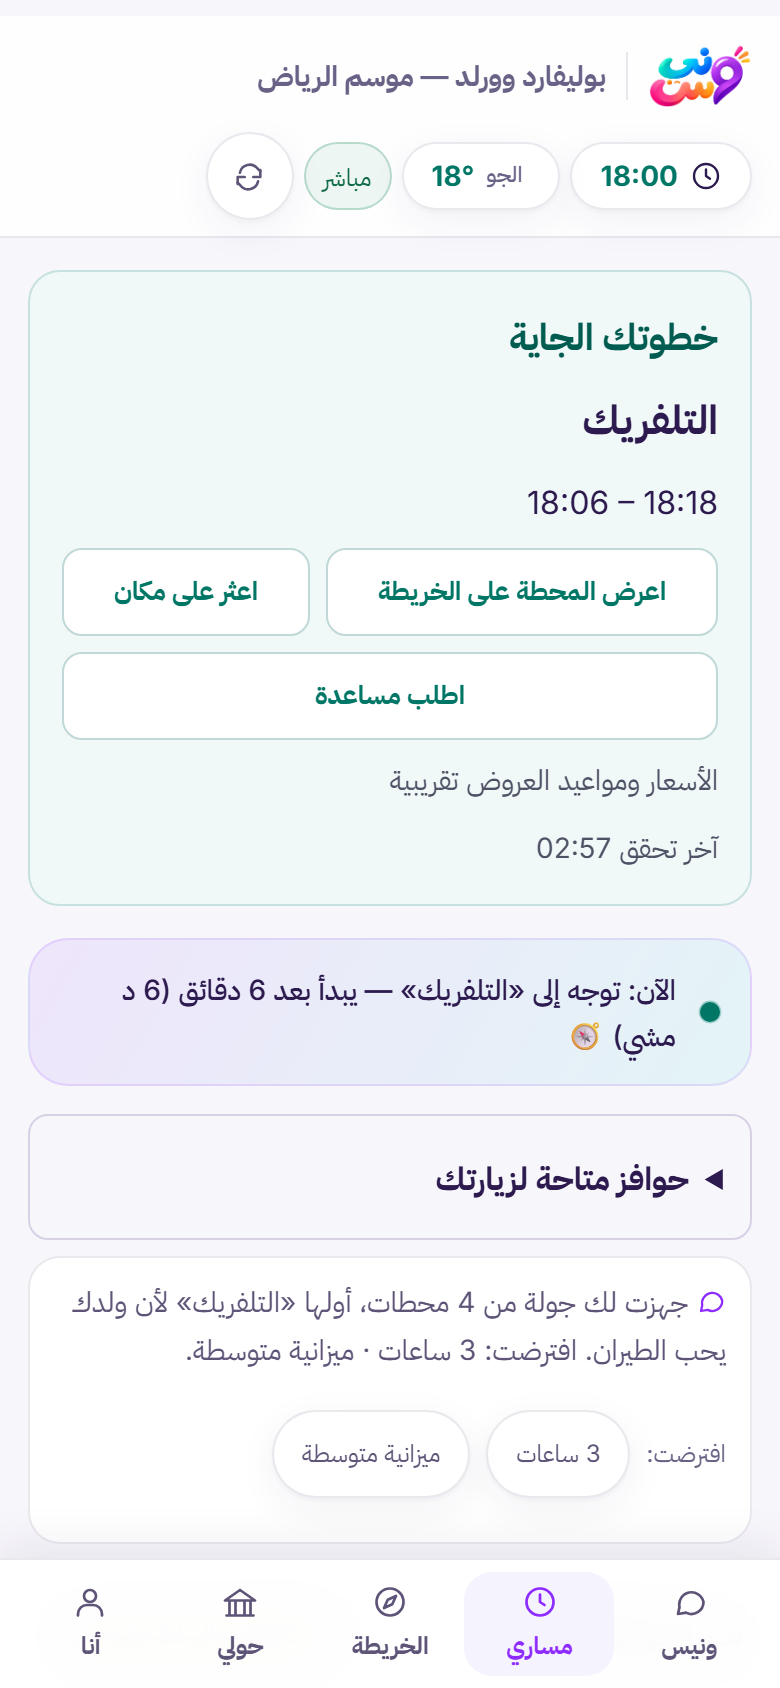
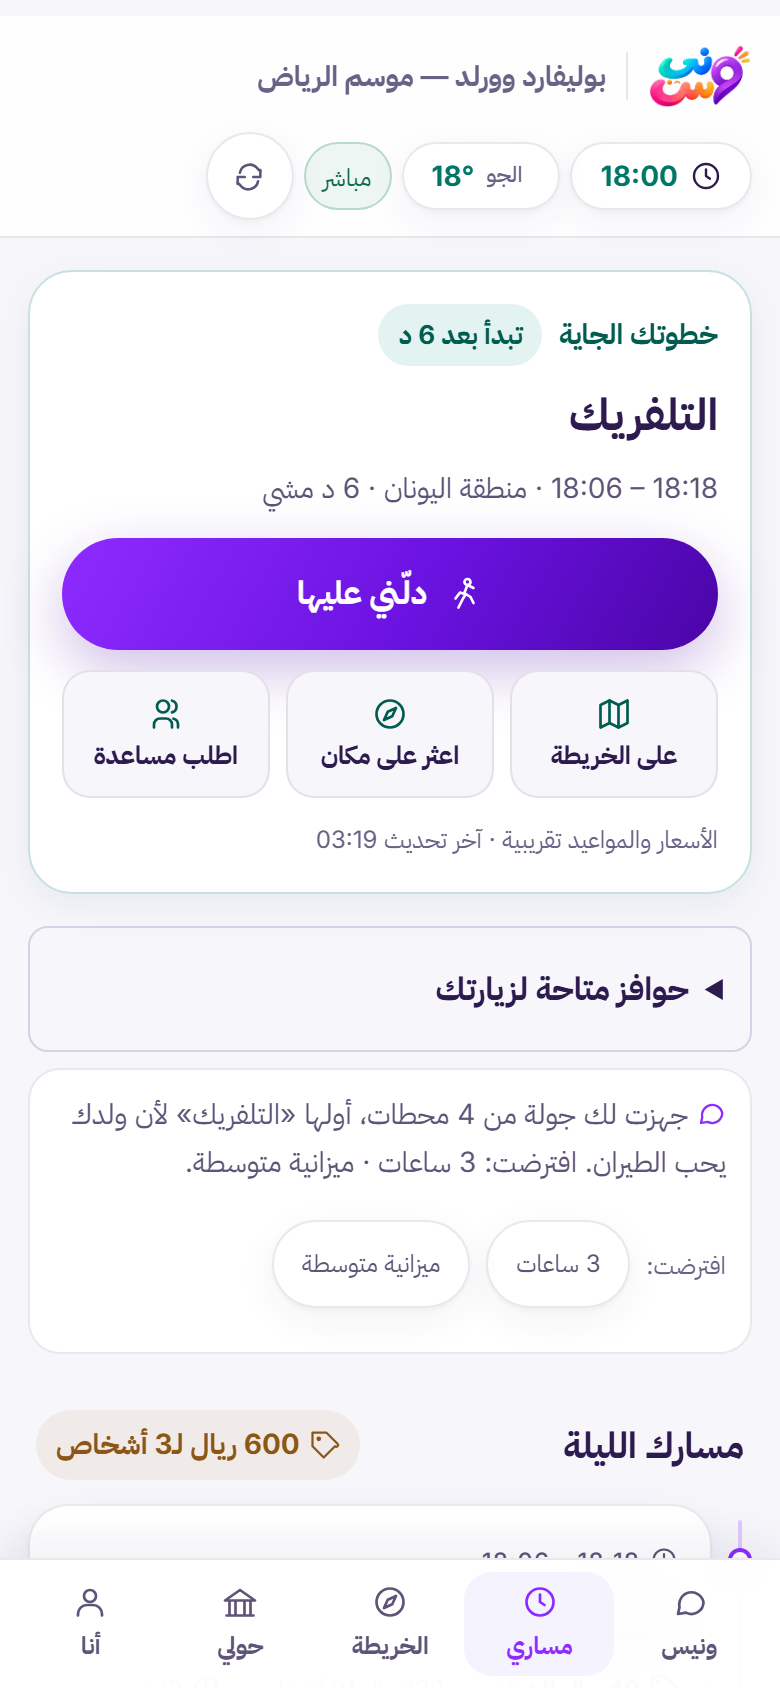
Visitor UX pass: a typing reply, one main action on the «now / next» card
- After «يلا» the visitor's sentence goes out as a chat bubble and Wanees types back
  while the plan is built.
- The «now / next» card: time left («باقي 12 د», «تبدأ بعد 6 د», «الموقع يفتح 18:00»),
  zone and walk, one main «دلّني عليها» button, three small tiles (map, find a place,
  help) and a single footnote. The banner below it that repeated the same stop is gone.
- The welcome's «اعثر على مكان» and operator link are quiet secondary actions.
- The browser suite waits up to 15 s for an assertion: on a cold CI runner with two
  browsers the first plan sometimes took just over 5 s (WebKit app-shell.spec.mjs:27).
- README screenshots retaken.

diff --git a/app/app/demo/page.tsx b/app/app/demo/page.tsx
@@ -1664,6 +1664,12 @@ function VisitorGuide({ eventSlug: suppliedEventSlug, allowLegacyFallback: suppl
           <h1 className="logo-word"><BrandLogo height={132} wordmark label="ونيس" priority /></h1>
           <p className="tagline"><b>هلا والله! قل لي وش بالك الليلة</b><br />مين معك، وش تحبون، وكم عندكم وقت. أفهمك من كلامك وأرتّب لك جولتك على طول.</p>
           {isFixture && <p className="visitor-note">{isPitch ? "عرض تجريبي · الأسعار والمواعيد للشرح" : "موسم 2026-27"}</p>}
+          {isBuildingPlan && (
+            <div className="chat-preview" aria-live="polite">
+              {openingText.trim() && <p className="chat-bubble mine"><bdi>{openingText.trim()}</bdi></p>}
+              <p className="chat-bubble typing" role="status"><span className="sr-only">ونيس يرتّب جولتك…</span><i /><i /><i /></p>
+            </div>
+          )}
         </div>
         <div className="welcome-actions">
           <Mascot mood="wave" height={150} className="welcome-mascot" priority />
@@ -1748,7 +1754,7 @@ function VisitorGuide({ eventSlug: suppliedEventSlug, allowLegacyFallback: suppl
               {openingError && <p className="guide" role="alert">{openingError}</p>}
             </form>
           )}
-          {eventLoadState !== "error" && <button className="cta secondary" type="button" disabled={eventLoadState !== "ready"} onClick={() => setShowPlaces(true)}>اعثر على مكان</button>}
+          {eventLoadState !== "error" && <button className="quiet-action" type="button" disabled={eventLoadState !== "ready"} onClick={() => setShowPlaces(true)}><Icon name="map" size={18}/> اعثر على مكان: حمام، بوابة، إسعاف</button>}
           {visitResetError && <p role="alert">{visitResetError}</p>}
           {guest?.exists && guest.preferences && (
             <button className="cta secondary" disabled={eventLoadState !== "ready" || isBuildingPlan} onClick={() => void startFromConversation("", guest.preferences as Record<string, unknown>)}>ابدأ بذوقك السابق <Icon name="rotate" size={16}/></button>
@@ -1789,6 +1795,11 @@ function VisitorGuide({ eventSlug: suppliedEventSlug, allowLegacyFallback: suppl
   const closedPreview = modeRef.current === "durable" && !venueOpen && !isPitch;
   const firstStop = it?.stops[0];
   const headline = closedPreview ? firstStop : upcoming;
+  const headlineZone = headline ? eventCatalog?.zones.find((zone) => zone.id === headline.zone)?.name ?? "" : "";
+  // «باقي 12 د» while a stop runs, «بعد 8 د» before it starts; nothing far ahead or before opening.
+  const minutesLeft = headline && !closedPreview ? (current && headline.act_id === current.act_id ? headline.end - now : headline.start - now) : null;
+  const timeLeftLabel = closedPreview && firstStop ? `الموقع يفتح ${fmt(now)}` : minutesLeft == null || minutesLeft <= 0 || minutesLeft > 90 ? ""
+    : current && headline?.act_id === current.act_id ? `باقي ${minutesLeft} د` : `تبدأ بعد ${minutesLeft} د`;
   let guide = it?.stops.length ? "انتهت جولتك. نتمنى أنك استمتعت!" : "ما لقينا نشاطًا يناسب الوقت والميزانية الآن. تقدر تستكشف الأماكن أو تبدأ زيارة جديدة.";
   if (closedPreview && firstStop) guide = `الموقع يفتح ${fmt(now)} · أول محطة ${fmt(firstStop.start)} «${firstStop.name}»`;
   else if (current) guide = `الآن: ${current.name} — استمتع! 🎉`;
@@ -1827,26 +1838,36 @@ function VisitorGuide({ eventSlug: suppliedEventSlug, allowLegacyFallback: suppl
 
       {it && itineraryVisible && <>
           <section className="next-stop" aria-labelledby="next-stop-title">
-            <h2 id="next-stop-title">{closedPreview ? "أول محطة بعد الافتتاح" : current ? "محطتك الآن" : "خطوتك الجاية"}</h2>
+            <div className="next-stop-head">
+              <h2 id="next-stop-title">{closedPreview ? "أول محطة بعد الافتتاح" : current ? "محطتك الآن" : "خطوتك الجاية"}</h2>
+              {headline && timeLeftLabel && <span className="next-stop-left">{timeLeftLabel}</span>}
+            </div>
             {headline ? <>
               <strong>{headline.name}</strong>
-              <p><ItineraryTimeRange start={fmt(headline.start)} end={fmt(headline.end)} />{headline.note && ` · ${headline.note}`}</p>
+              <p className="next-stop-when"><ItineraryTimeRange start={fmt(headline.start)} end={fmt(headline.end)} />{headlineZone && <> · {headlineZone}</>}{!(current && headline.act_id === current.act_id) && headline.walk_min > 0 && <> · {headline.walk_min} د مشي</>}{headline.note && <> · {headline.note}</>}</p>
             </> : <p>{guide}</p>}
+            {headline && !isPitch && (
+              <button type="button" className="cta next-stop-go" onClick={(event) => openDirections(headline.act_id, event.currentTarget)}>
+                <Icon name="walk" size={18}/> {current ? "دلّني داخل المحطة" : "دلّني عليها"}
+              </button>
+            )}
             <div className="visit-quick-actions">
-              {headline && <button type="button" className="link-btn" onClick={() => showMap(headline.zone)}>اعرض المحطة على الخريطة</button>}
-              <button type="button" className="link-btn" onClick={() => setShowPlaces(true)}>اعثر على مكان</button>
+              {headline && <button type="button" className="link-btn" onClick={() => showMap(headline.zone)}><Icon name="map" size={18}/> على الخريطة</button>}
+              <button type="button" className="link-btn" onClick={() => setShowPlaces(true)}><Icon name="compass" size={18}/> اعثر على مكان</button>
               <button type="button" className="link-btn" onClick={() => {
-                setActiveTab("assistant");
+                selectTab("assistant");
                 void sendChat("أحتاج مساعدة من موظف");
-              }}>اطلب مساعدة</button>
+              }}><Icon name="people" size={18}/> اطلب مساعدة</button>
             </div>
             {reading && <small className="visitor-note">الإشغال المرصود {Math.round(reading.level * 100)}٪{reading.observation?.waitMinutes != null && ` · انتظار ${reading.observation.waitMinutes} د`} · {reading.source === "operator" ? "من المشغّل" : "من نظام الموقع"}</small>}
-            {isFixture && <small className="visitor-note">{isPitch ? "عرض تجريبي · أسعار ومواعيد توضيحية" : "الأسعار ومواعيد العروض تقريبية"}</small>}
-            {lastLiveCheck && <small className="visitor-note">آخر تحقق {venueTimeLabel(lastLiveCheck, eventTimezone)}</small>}
+            {(isFixture || lastLiveCheck) && <small className="visitor-note next-stop-foot">
+              {isFixture && (isPitch ? "عرض تجريبي، الأسعار والمواعيد توضيحية" : "الأسعار والمواعيد تقريبية")}
+              {isFixture && lastLiveCheck && <span aria-hidden="true"> · </span>}
+              {lastLiveCheck && <>آخر تحديث {venueTimeLabel(lastLiveCheck, eventTimezone)}</>}
+            </small>}
           </section>
       </>}
-      {/* The «now» card above already says which stop is running; no second banner for the same thing. */}
-      {it && itineraryVisible && !(current && headline?.act_id === current.act_id) && <div className="guide plan-guide" role="status"><span className="dot" />{it.stops.length ? guide : "ما فيه محطات ضمن الوقت والتفضيلات المختارة."}</div>}
+      {/* The «now / next» card above says which stop, when, and how far: no second banner for the same thing. */}
       {replanFeedback && <p className="guide" role="status">{replanFeedback}</p>}
       {replanProposal && !proposalVisible && (
         <button type="button" className="cta proposal-reminder" onClick={() => { setReplanFeedback(""); setCollapsedProposalId(null); }}>

diff --git a/app/app/globals.css b/app/app/globals.css
@@ -1783,3 +1783,48 @@ html:has(dialog[open].bottom-sheet) { overflow: hidden; }
   .opening-composer .opening-input { order: -1; }
   .welcome-flow .welcome-mascot { display: none; }
 }
+
+/* «Now / next» card: what is happening, how long is left, one main action, then three small tiles. */
+.visitor-plan .next-stop {
+  gap: 10px; padding: 16px; border-radius: 22px;
+  background: #ffffff; border: 1px solid #c6e1df; box-shadow: 0 6px 20px rgba(0, 92, 80, 0.07);
+}
+.next-stop-head { display: flex; flex-wrap: wrap; align-items: center; gap: 8px; }
+.visitor-plan .next-stop h2 { margin: 0; font-size: 14px; font-weight: 700; color: #005c50; }
+.next-stop-left { flex: none; padding: 4px 10px; border-radius: var(--r-pill); background: #e3f3f1; color: #005c50; font-size: 13px; font-weight: 700; }
+.visitor-plan .next-stop strong { font-size: 22px; line-height: 1.35; }
+.next-stop-when { color: var(--ink-2); font-size: 14px; }
+.next-stop-go { min-height: 52px; margin-top: 2px; }
+.visitor-plan .next-stop .visit-quick-actions { display: grid; grid-template-columns: repeat(3, minmax(0, 1fr)); gap: 8px; }
+.visitor-plan .next-stop .visit-quick-actions .link-btn {
+  flex-direction: column; gap: 4px; min-height: 64px; padding: 8px 4px;
+  border: 1px solid var(--line); border-radius: 14px; background: var(--app-bg, #f7f6fb);
+  color: var(--ink); font-size: 12.5px; line-height: 1.3; text-decoration: none;
+}
+.visitor-plan .next-stop .visit-quick-actions .link-btn svg { color: #005c50; }
+.next-stop-foot { color: var(--ink-3); font-size: 12px; }
+@media (min-width: 1024px) and (min-height: 600px) {
+  .visitor-plan[data-wide="true"] .next-stop .next-stop-go { grid-column: 2; grid-row: 1 / span 2; align-self: end; }
+  .visitor-plan[data-wide="true"] .next-stop .visit-quick-actions { grid-column: 2; grid-row: 3 / span 4; min-width: 260px; }
+}
+
+/* The opening chat answers the tap: the visitor's sentence goes out and Wanees is typing. */
+.chat-preview { display: grid; gap: 8px; width: 100%; margin-top: 4px; }
+.chat-bubble { max-width: 88%; margin: 0; padding: 10px 14px; border-radius: 20px; line-height: 1.7; text-align: start; }
+.chat-bubble.mine { justify-self: end; border-end-end-radius: 6px; background: linear-gradient(120deg, #8e2bff, #4a05a6); color: #ffffff; }
+.chat-bubble.typing { justify-self: start; display: inline-flex; gap: 5px; align-items: center; border-start-start-radius: 6px; background: #ffffff; border: 1px solid var(--line); }
+.chat-bubble.typing i { width: 7px; height: 7px; border-radius: 50%; background: var(--ink-3); animation: wanees-typing 1s infinite ease-in-out; }
+.chat-bubble.typing i:nth-of-type(2) { animation-delay: 0.15s; }
+.chat-bubble.typing i:nth-of-type(3) { animation-delay: 0.3s; }
+@keyframes wanees-typing { 0%, 60%, 100% { opacity: 0.35; transform: translateY(0); } 30% { opacity: 1; transform: translateY(-3px); } }
+@media (prefers-reduced-motion: reduce) { .chat-bubble.typing i { animation: none; opacity: 0.7; } }
+
+/* Secondary actions on the opening screen stay quiet next to the chat. */
+.quiet-action {
+  display: inline-flex; align-items: center; justify-content: center; gap: 8px; min-height: 48px; width: 100%;
+  padding: 10px 14px; border: 1px solid var(--line); border-radius: 16px; background: #ffffff;
+  color: var(--ink); font: inherit; font-size: 14px; font-weight: 600; cursor: pointer;
+}
+.quiet-action svg { color: var(--purple); }
+.quiet-action:disabled { opacity: 0.5; cursor: not-allowed; }
+.welcome-flow .welcome-operator .ghost-link { min-height: 44px; border: 0; background: none; box-shadow: none; color: var(--ink-3); font-size: 13px; font-weight: 600; }

diff --git a/CHANGELOG.md b/CHANGELOG.md
@@ -29,6 +29,16 @@ All notable changes to WANEES. Dates are in Asia/Riyadh time.
   top bar and the tab bar stay still; reduced motion turns it off.
   Prices (`--gold`) are a shade darker in the visitor app (`#8c5714`) so they keep 4.5:1 on the new background.
   The responsive test treats a control inside a sideways-scrolling strip as reachable, not clipped.
+- The browser suite waits up to 15 s (not 5 s) for an assertion, because building the first plan on a cold CI
+  runner with two browsers at once sometimes took longer.
+- UX pass on the phone screens:
+  - After «يلا» the visitor sees their sentence go out as a chat bubble and Wanees typing, instead of only the
+    button label changing.
+  - The «now / next» card has one main action («دلّني عليها» / «دلّني داخل المحطة»), the time left («باقي 12 د»,
+    «تبدأ بعد 6 د», «الموقع يفتح 18:00»), the zone and the walk, then three small tiles: on the map, find a place,
+    ask for help. Its notes are one line. The banner under it that repeated the same stop is gone.
+  - On the opening screen «اعثر على مكان» says what it finds (حمام، بوابة، إسعاف) and, like the operator link, no
+    longer competes with the chat.
 - The visitor app turns off the Next.js development badge (`devIndicators: false`): on a phone it covered the
   bottom navigation's «أنا» tab. Build and runtime errors still open the development overlay.
 
